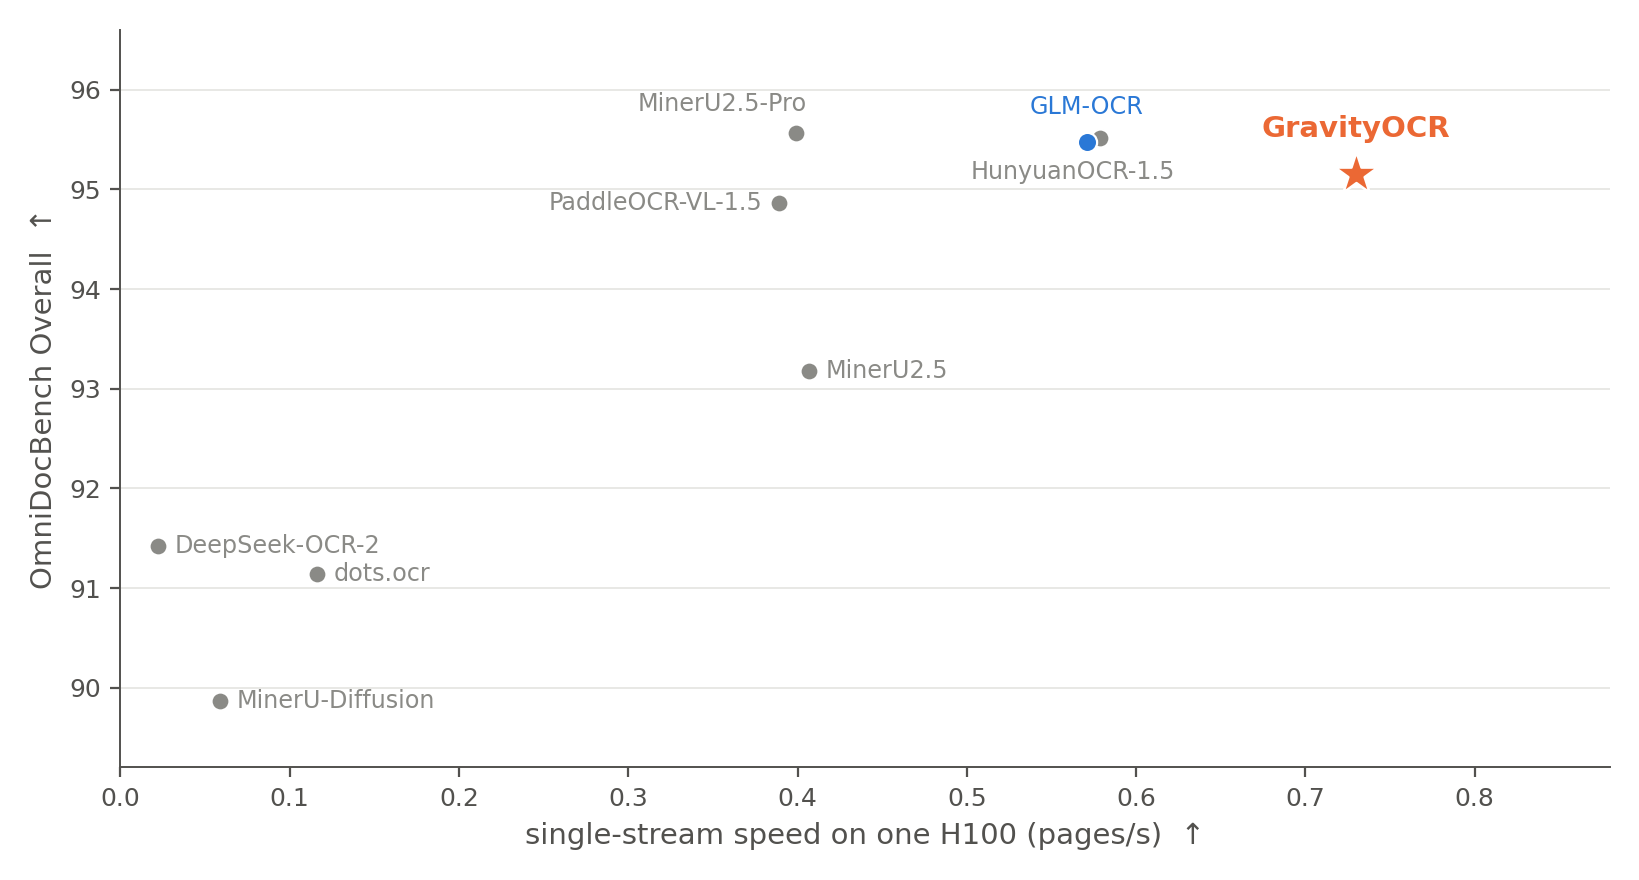
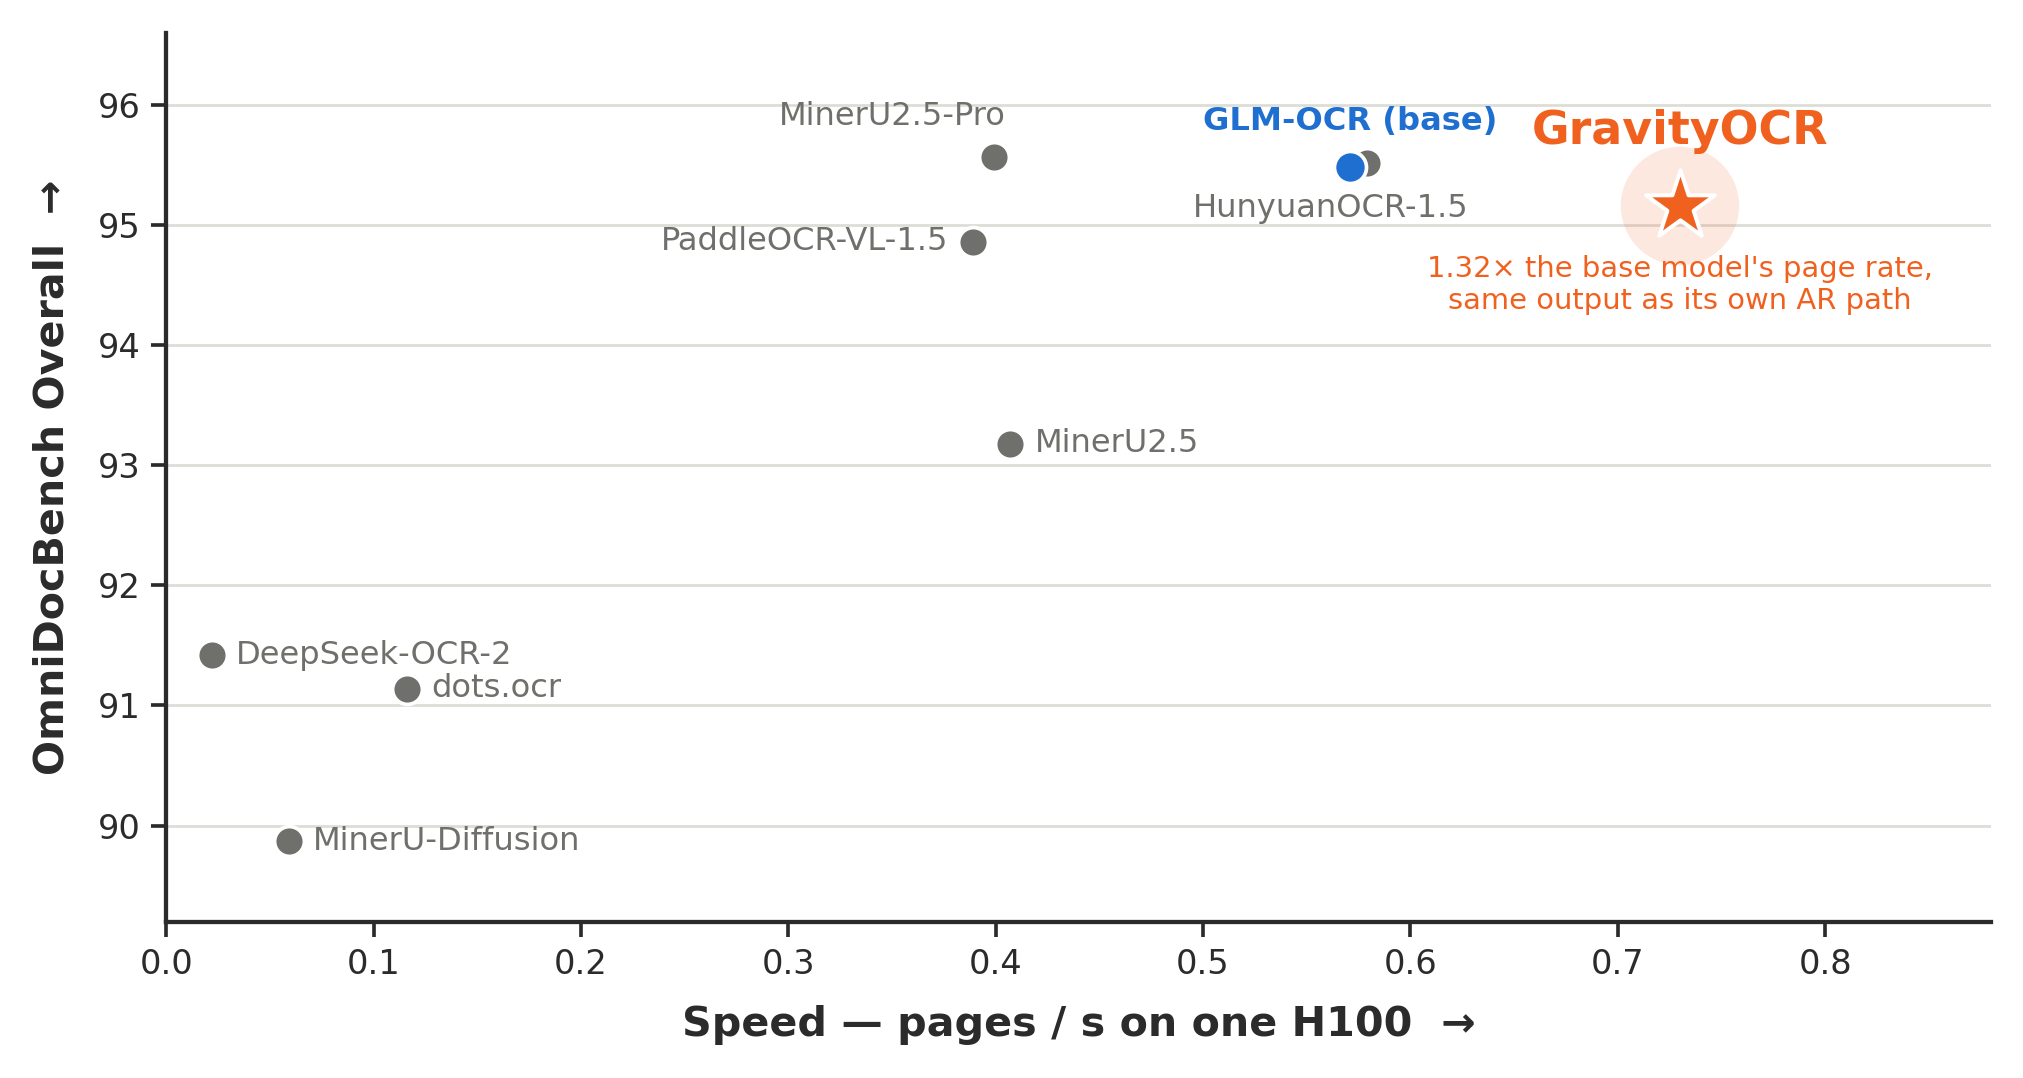
README visuals: bolder Figure 1, labelled round clip, captions cut
- Figure 1 re-rendered with heavier axes, larger type, bigger markers and a highlighted star with a
  one-line note under it
- the round clip now labels the crop as INPUT and the text panel as OUTPUT; small fonts switched to
  DejaVu Sans (the STIX face left kerning gaps)
- the long caption under the page race is gone; the Figure 1 caption is one line

Claude-Session: https://claude.ai/code/session_011azDqDkyvzZzkHpyWM6qbb

Changed region(s): [[0.0, 0.0307, 0.9957, 0.9818]]

diff --git a/README.md b/README.md
@@ -18,13 +18,11 @@ step. Hand it to your coding agent or follow it yourself.
 
 <p align="center"><img src="assets/teaser.png" width="88%" alt="OmniDocBench Overall vs. pages per second"></p>
 
-<p align="center"><sub>OmniDocBench v1.6 Overall against single-stream page rate on one H100, every system measured by us on the same boundary. GravityOCR keeps the base model's accuracy and is the fastest.</sub></p>
+<p align="center"><sub>OmniDocBench v1.6 Overall vs. single-stream page rate on one H100 — every system measured on the same boundary.</sub></p>
 
 ## See it decode
 
 <p align="center"><img src="assets/page_race.gif" width="100%" alt="One page, AR vs self-speculative, at measured speed"></p>
-
-<p align="center"><sub>One OmniDocBench page, seven regions, same weights. Both panels play at their <b>measured</b> per-region times — vision encoding, prefill and decoding through the SGLang server on one H100, batch size 1; layout detection not included — slowed 6.3× so you can watch. Self-speculative decoding finishes the page in 1.06 s and 124 forward passes; autoregressive needs 2.86 s and 1,844.</sub></p>
 
 ## How it works
 

diff --git a/MODEL_CARD.md b/MODEL_CARD.md
@@ -36,10 +36,7 @@ The two GravityOCR rows score the same because they produce the same text. On re
 
 ![One page, AR vs self-speculative, at measured speed](assets/page_race.gif)
 
-*One OmniDocBench page, seven regions, same weights. Both panels play at their measured per-region times
-(vision encoding + prefill + decoding through the SGLang server, one H100, batch size 1; layout detection
-not included), slowed 6.3×. Self-speculative decoding finishes the page in 1.06 s and 124 forward passes;
-autoregressive needs 2.86 s and 1,844.*
+*One OmniDocBench page, both sides at their measured per-region times (one H100, slowed 6.3×).*
 
 Speed: SGLang serving, one H100, batch size 1, measured at the HTTP boundary. Score: official OmniDocBench protocol
 and aggregation. Paper: *Diffusion Drafts, AR Verifies: Accelerating Document OCR with Self-Speculative Decoding*
